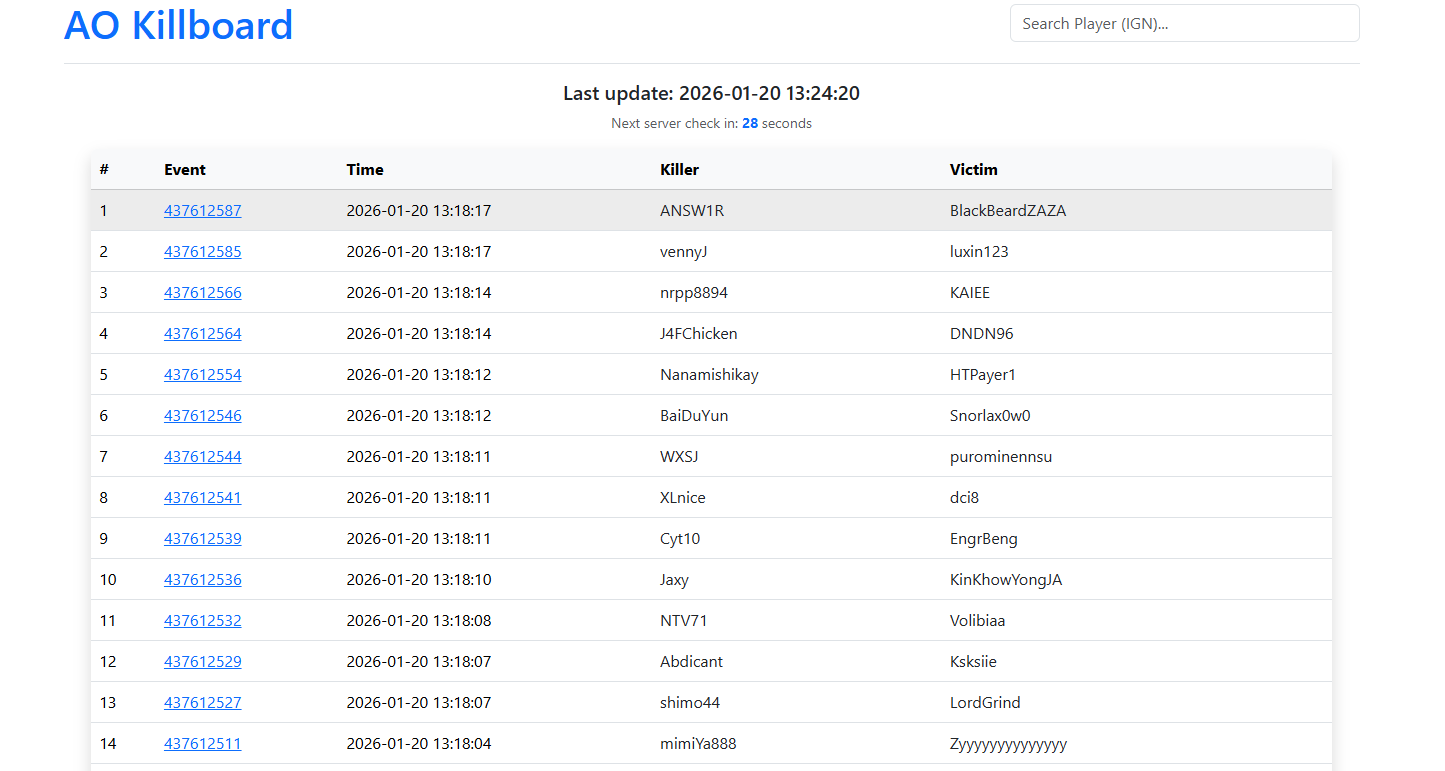
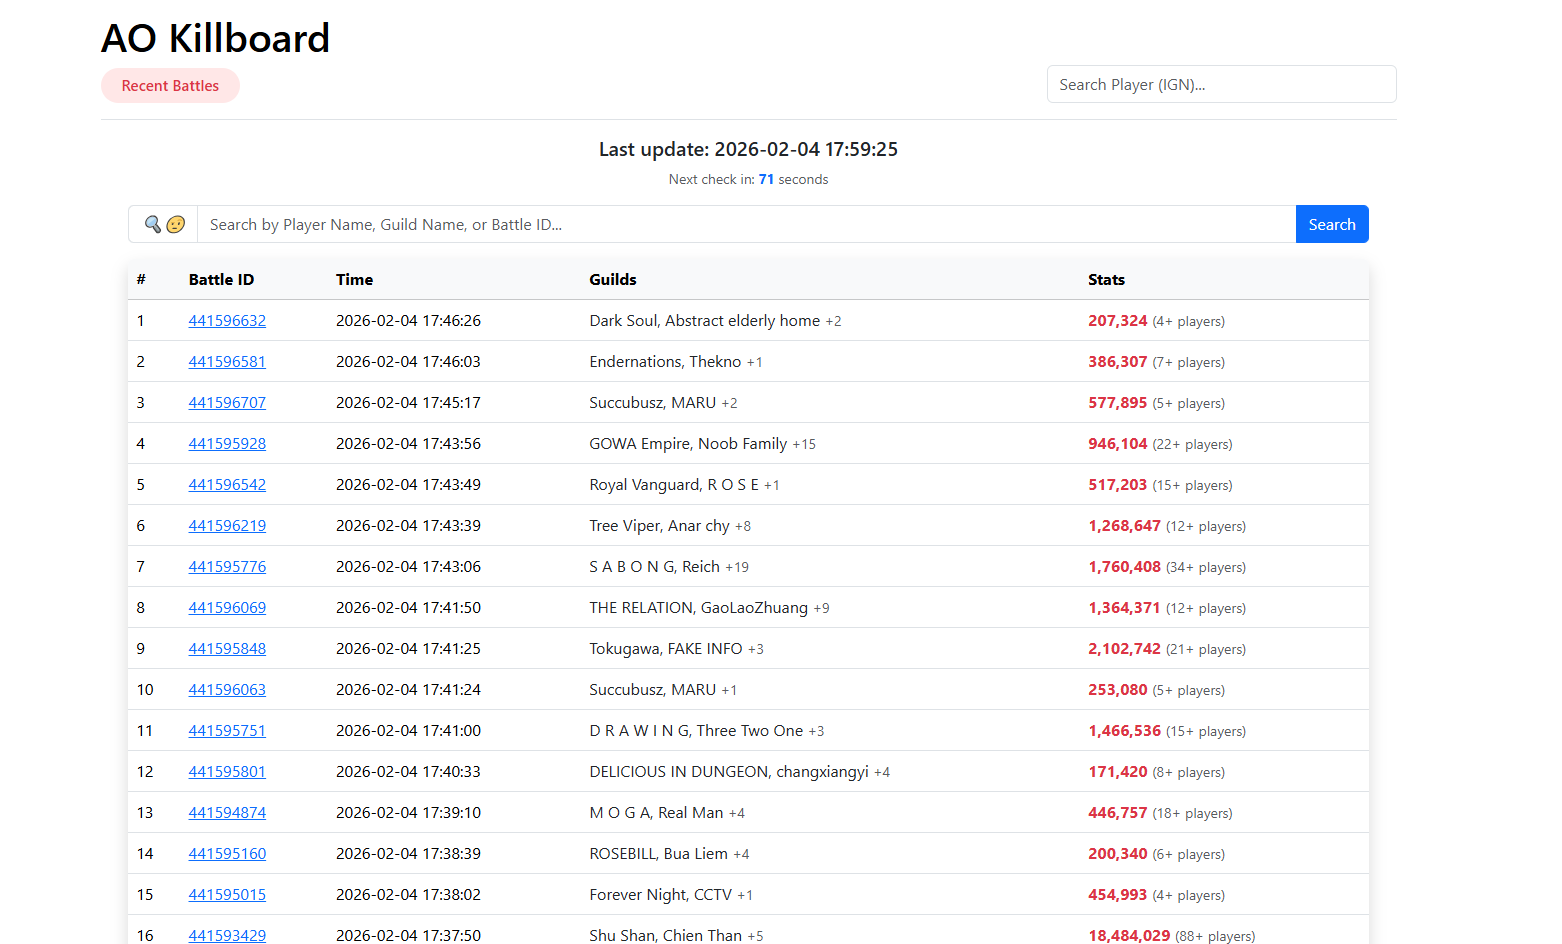
new images

diff --git a/bot.py b/bot.py
@@ -16,6 +16,11 @@ load_dotenv()
 TOKEN = os.getenv('DISCORD_BOT_TOKEN')
 MONGO_URI = os.getenv('MONGODB_URI')
 CHANNEL_ID = None
+API_HEADERS = {
+    'User-Agent': 'Mozilla/5.0 (Windows NT 10.0; Win64; x64) AppleWebKit/537.36 (KHTML, like Gecko) Chrome/120.0.0.0 Safari/537.36',
+    'Accept': 'application/json, text/plain, */*',
+    'Accept-Language': 'en-US,en;q=0.9'
+}
 
 # --- DATABASE ---
 client = MongoClient(MONGO_URI)
@@ -53,6 +58,7 @@ class KillboardBot(commands.Bot):
         intents = discord.Intents.default()
         intents.message_content = True
         super().__init__(command_prefix="!", intents=intents)
+        self.is_scanning = False
 
     async def setup_hook(self):
         self.ingest_events.start()
@@ -62,89 +68,95 @@ class KillboardBot(commands.Bot):
     async def on_ready(self):
         log(f'Logged in as {self.user}')
 
-# --- TASK 1: DEEP INGESTION [60s) ---
-    @tasks.loop(seconds=60)
+# ---INGESTION [20s] ---
+    @tasks.loop(seconds=20)
     async def ingest_events(self):
         await self.wait_until_ready()
-        log("🔄 Starting Deep Scan Cycle...")
+        if self.is_scanning:
+            log("⚠ Previous scan still running. Skipping this tick.")
+            return
+        self.is_scanning = True
         
-        tracked_cursor = tracked_collection.find({}, {'name': 1})
-        tracked_names = {doc['name'].lower() for doc in tracked_cursor}
-        
-        log(f"📋 Tracking {len(tracked_names)} players.")
-        
-        if not tracked_names:
-            log("⚠ No players to track. Skipping API calls.")
-            return 
+        try:
+            log("🔄 Starting Deep Scan Cycle...")  
+            tracked_cursor = tracked_collection.find({}, {'name': 1})
+            tracked_names = {doc['name'].lower() for doc in tracked_cursor}            
+            log(f"📋 Tracking {len(tracked_names)} players.")
+            
+            if not tracked_names:
+                log("⚠ No players to track. Skipping API calls.")
+                return 
 
-        async with aiohttp.ClientSession() as session:
-            for offset in range(0, 1001, 51):
-                try:
-                    url = f'https://gameinfo-sgp.albiononline.com/api/gameinfo/events?offset={offset}&limit=51'
-                    log(f"🔎 Scanning Offset {offset}...") 
-                    
-                    async with session.get(url) as resp:
-                        if resp.status != 200:
-                            log(f"❌ API Error {resp.status} at offset {offset}")
-                            break
-                        
-                        api_data = await resp.json()
-                        if not api_data:
-                            log("   -> End of stream.")
-                            break
+            async with aiohttp.ClientSession() as session:
+                for offset in range(0, 1001, 51):
+                    try:
+                        url = f"https://gameinfo-sgp.albiononline.com/api/gameinfo/events?limit=51&offset={offset}&sort=recent"
+                        log(f"🔎 Scanning Offset {offset}...") 
 
-                        events_to_save = []
-                        
-                        for event in api_data:
-
-                            if event.get('TotalVictimKillFame', 0) == 0:
-                                continue
-
-                            eid = event['EventId']
-                            k_name = event['Killer']['Name'].lower()
-                            v_name = event['Victim']['Name'].lower()
+                        async with session.get(url, headers=API_HEADERS) as resp:
+                            if resp.status != 200:
+                                log(f"❌ API Error {resp.status} at offset {offset}")
+                                break
                             
-                            # Check participants for tracked players
-                            participants = [p['Name'].lower() for p in event.get('Participants', [])]
-                            is_tracked_participant = any(p in tracked_names for p in participants)
+                            api_data = await resp.json()
+                            if not api_data:
+                                log("   -> End of stream.")
+                                break
+
+                            events_to_save = []
                             
-                            if k_name in tracked_names or v_name in tracked_names or is_tracked_participant:
-                                if not events_collection.find_one({'EventId': eid}, {'_id': 1}):
-                                    log(f"   -> 🎯 Found NEW Tracked Event! ID: {eid} ({k_name} vs {v_name})")
-                                    
-                                    try:
-                                        event['CreatedAt'] = datetime.fromisoformat(event['TimeStamp'].replace('Z', '+00:00'))
-                                    except:
-                                        event['CreatedAt'] = datetime.now(timezone.utc)
-                                    
-                                    event['processed'] = False
-                                    events_to_save.append(event)
+                            for event in api_data:
 
-                        if events_to_save:
-                            events_to_save.sort(key=lambda x: x['EventId'])
-                            try:
-                                events_collection.insert_many(events_to_save, ordered=False)
-                                log(f"📥 Saved {len(events_to_save)} events to DB.")
-                            except Exception as e:
-                                log(f"   -> Insert warning: {e}")
+                                if event.get('TotalVictimKillFame', 0) == 0:
+                                    continue
 
-                except Exception as e:
-                    log(f"❌ Ingestion Exception at offset {offset}: {e}")
-                    break
-                
-                await asyncio.sleep(0.8)
+                                eid = event['EventId']
+                                k_name = event['Killer']['Name'].lower()
+                                v_name = event['Victim']['Name'].lower()
+                                
+                                # Check participants for tracked players
+                                participants = [p['Name'].lower() for p in event.get('Participants', [])]
+                                is_tracked_participant = any(p in tracked_names for p in participants)
+                                
+                                if k_name in tracked_names or v_name in tracked_names or is_tracked_participant:
+                                    if not events_collection.find_one({'EventId': eid}, {'_id': 1}):
+                                        log(f"   -> 🎯 Found NEW Tracked Event! ID: {eid} ({k_name} vs {v_name})")
+                                        
+                                        try:
+                                            event['CreatedAt'] = datetime.fromisoformat(event['TimeStamp'].replace('Z', '+00:00'))
+                                        except:
+                                            event['CreatedAt'] = datetime.now(timezone.utc)
+                                        
+                                        event['processed'] = False
+                                        events_to_save.append(event)
 
-        current_time = datetime.now().strftime('%Y-%m-%d %H:%M:%S')
-        next_run = datetime.now().timestamp() + 60
-        settings_collection.update_one(
-            {'_id': 'scheduler_status'},
-            {'$set': {'last_check': current_time, 'next_run': next_run}},
-            upsert=True
-        )
-        log("✅ Scan Complete.")
+                            if events_to_save:
+                                events_to_save.sort(key=lambda x: x['EventId'])
+                                try:
+                                    events_collection.insert_many(events_to_save, ordered=False)
+                                    log(f"📥 Saved {len(events_to_save)} events to DB.")
+                                except Exception as e:
+                                    log(f"   -> Insert warning: {e}")
+
+                    except Exception as e:
+                        log(f"❌ Ingestion Exception at offset {offset}: {e}")
+                        break
+                    await asyncio.sleep(0.3)
+
+            current_time = datetime.now().strftime('%Y-%m-%d %H:%M:%S')
+            next_run = datetime.now().timestamp() + 20
+            settings_collection.update_one(
+                {'_id': 'scheduler_status'},
+                {'$set': {'last_check': current_time, 'next_run': next_run}},
+                upsert=True
+            )
+            log("✅ Scan Complete.")
+            
+        finally:
+            self.is_scanning = False
 
 
-# --- TASK 2: PROCESSING ---
+# ---PROCESSING ---
     @tasks.loop(seconds=5) 
     async def process_events_queue(self):
         await self.wait_until_ready()
@@ -216,13 +228,12 @@ async def event(ctx, event_id: int):
     
     async with aiohttp.ClientSession() as session:
         try:
-            async with session.get(url) as resp:
+            async with session.get(url, headers=API_HEADERS) as resp:
                 if resp.status != 200:
                     await ctx.send(f"❌ API Error: {resp.status}")
-                    return
-                
+                    return               
                 event_data = await resp.json()
-                
+
                 try:
                     event_data['CreatedAt'] = datetime.fromisoformat(event_data['TimeStamp'].replace('Z', '+00:00'))
                 except:
@@ -299,7 +310,7 @@ async def get_estimated_value(session, victim_data):
     url = f"https://east.albion-online-data.com/api/v2/stats/prices/{item_str}.json?locations={locations}&qualities=1,2,3,4,5"
     
     try:
-        async with session.get(url) as resp:
+        async with session.get(url, headers=API_HEADERS) as resp:
             if resp.status != 200: return 0
             price_data = await resp.json()
     except Exception: return 0
@@ -331,7 +342,7 @@ async def get_estimated_value(session, victim_data):
 # --- IMAGE GENERATION ---
 async def fetch_image(session, url):
     try:
-        async with session.get(url) as resp:
+        async with session.get(url, headers=API_HEADERS) as resp:
             if resp.status == 200:
                 data = await resp.read()
                 return Image.open(BytesIO(data)).convert("RGBA")
@@ -604,8 +615,6 @@ def create_embed(doc, est_value):
     
     is_kill = k['Name'].lower() in tracked_names
     is_death = v['Name'].lower() in tracked_names
-    
-    # Find if a tracked player is a participant (but not killer/victim)
     tracked_participant_name = next((p['Name'] for p in doc.get('Participants', []) if p['Name'].lower() in tracked_names), None)
     
     # --- TITLE & COLOR ---
@@ -637,17 +646,14 @@ def create_embed(doc, est_value):
         p_name = p.get('Name')
         p_id = p.get('Id')
         
-        # FILTER: Exclude the Killer from the participants list
         if p_name == k['Name']:
             continue
 
         if p_name and p_id:
-            # Bolded name with hyperlink
             link = f"[**{p_name}**](https://lalo-kb.onrender.com/player/{p_id})"
             participant_links.append(link)
 
     if participant_links:
-        # Limit to the first 6 participants to keep the message clean
         display_limit = 6
         displayed_names = participant_links[:display_limit]
         remaining_count = len(participant_links) - display_limit
@@ -659,7 +665,6 @@ def create_embed(doc, est_value):
     else:
         participants_value = "Solo"
 
-    # Keeps label and names on the same line
     embed.description = f"**Participants:** {participants_value}"
     
     # --- TIMESTAMP & FOOTER ---
